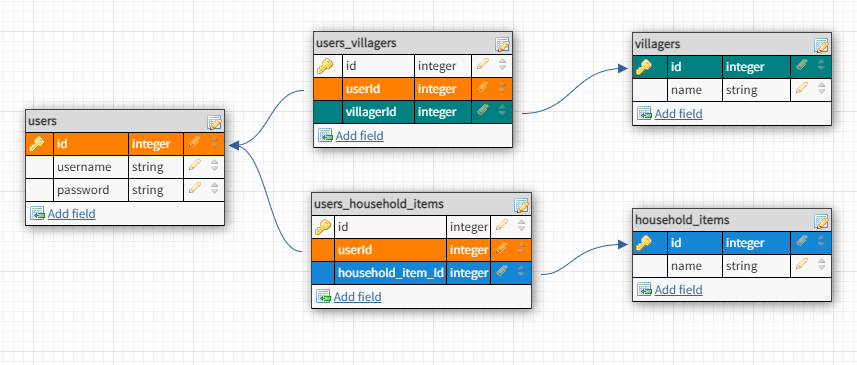
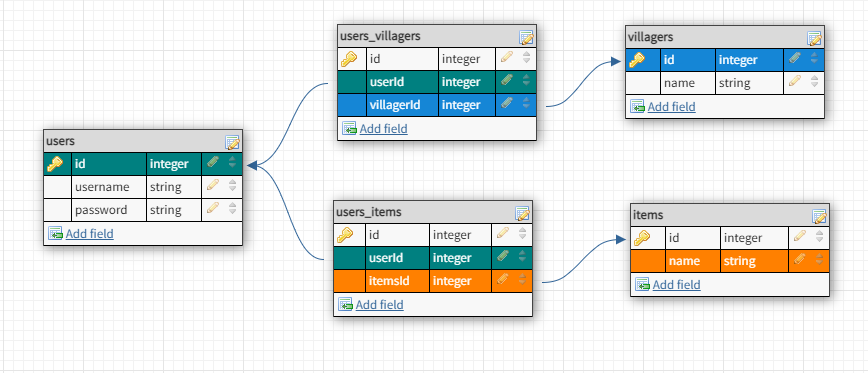
MVP

diff --git a/controllers/userController.js b/controllers/userController.js
@@ -21,9 +21,6 @@ router.post('/', async (req, res) => {
             username: req.body.username,
             password: hashedPassword
         })
-
-        // console.log(res.locals.user)
-
         const encryptedId = AES.encrypt(user.id.toString(), process.env.COOKIE_SECRET).toString()
         res.cookie('userId', encryptedId)
         res.redirect('/')
@@ -38,14 +35,12 @@ router.get('/login', (req, res) => {
     res.render('users/login')
 })
 
-// LOGIN - POST - user login pw -- NEED TO WORK ON
+// LOGIN - POST
 router.post('/login', async (req, res) => {
     try {
         const user = await db.user.findOne({
             where: { username: req.body.username }
         })
-        // console.log(req.body.password)
-        // console.log(user.password)
         if (user && bcrypt.compareSync(req.body.password, user.password)) {
             const encryptedId = AES.encrypt(user.id.toString(), process.env.COOKIE_SECRET).toString()
             res.cookie('userId', encryptedId)
@@ -60,9 +55,9 @@ router.post('/login', async (req, res) => {
     }
 })
 
-// PROFILE - GET - After login, user gets sent to the profile page 
+// PROFILE - GET  
 router.get('/profile', (req, res) => {
-    res.render('users/profile', { user: req.user }) // ADDED THIS LINE
+    res.render('users/profile', { user: req.user })
 })
 
 // LOGOUT - GET route - /users/logout

diff --git a/controllers/villagerController.js b/controllers/villagerController.js
@@ -22,7 +22,7 @@ router.get('/', async (req, res) => {
             }
             villagers.push(villagerData)
         }
-        villagers.splice(10, villagers.length)
+        villagers.splice(50, villagers.length)
         res.render('./villagers', { villagers: villagers })
 
     } catch (error) {
@@ -43,9 +43,8 @@ router.get('/:id', async (req, res) => {
     }
 })
 
-// favorite post should hit this post
+// favorite post should hit this route
 router.post('/', async (req, res) => {
-    // console.log(req.body)
     try {
         const [newVillager, created] = await db.villager.findOrCreate({
             where: { name: req.body.name }
@@ -62,8 +61,6 @@ router.post('/', async (req, res) => {
 router.delete('/:id', async (req, res) => {
     try {
         const villager = await db.villager.findByPk(req.params.id)
-        // const removedVillager = await
-        console.log(villager)
         res.locals.user.removeVillager(villager)
         res.redirect('/favorite')
     } catch(error) {

diff --git a/controllers/itemController.js b/controllers/itemController.js
@@ -21,8 +21,7 @@ router.get('/', async (req, res) => {
             }
             items.push(householdData)
         }
-        items.splice(10, items.length)
-        // console.log(householdItems[0].name.split(" ").join("_"), '👀👀👀🐱🚀🐱🚀👀🐱🚀👀')
+        items.splice(50, items.length)
         res.render('./items', { items: items })
     } catch (error) {
         console.log(error)
@@ -48,7 +47,6 @@ router.post('/', async (req, res) => {
         const [newItem, created] = await db.item.findOrCreate({
             where: { name: req.body.name }
         })
-        // console.log(newHouseholdItem) //works
         res.locals.user.addItem(newItem)
         res.redirect('/favorite')
     } catch(error) {

diff --git a/server.js b/server.js
@@ -56,17 +56,14 @@ app.get('/favorite', async (req, res) => {
         try {
             const user = await db.user.findOne({
                 where: { id: res.locals.user.id },
-                // include: db.villager
                 include: [db.villager, db.item]
             })
             res.render('favorite.ejs', { villagers: user.villagers, items: user.items })
-            // , items: user.items
         } catch (err) {
             console.log(err)
         }
     }
 })
-
 
 app.listen(PORT, () => {
     rowdyResults.print()

diff --git a/README.md b/README.md
@@ -34,36 +34,35 @@ Since its first release in 2001 by Katsuya Eguchi and Hisashi Nogami, the Animal
 ## RESTful Routing Chart
 Users Chart
 
-| Method  | URL             | Functionality   | View                 |
-| ------- | ----------      | --------------  | -------------------  |
-| GET     | /users/new      | sign up         | redirect to /index   |
-| POST    | /users          | create new user | redirect to /profile |
-| GET     | /users/login    | login           | redirect to /index   |
-| POST    | /users/login    | logs in new user| redirect to /profile |
-| GET     | /users/logout   | logout          | redirect to /index   |
+| Method  | URL             | Functionality           | View                 |
+| ------- | ----------      | --------------          | -------------------  |
+| GET     | /users/new      | sign up                 | redirect to /new     |
+| POST    | /users          | create new user         | redirect to /        |
+| GET     | /users/login    | login                   | redirect to /login   |
+| GET     | /users/login    | logs in new user        | redirect to /login   |
+| GET     | /users/profile  | direct user to fav prof | redirect to /profile |
+| GET     | /users/logout   | logout                  | redirect to /        |
 
 
 Villagers Chart
 
-| Method  | URL             | Functionality      | View                       |
-| ------- | ----------      | --------------     | ------------------------   |
-| GET     | /villagers      | list all villagers | show villagers/index.ejs   |
-| POST    | /villagers      | add a villager     | redirect to /villagers/:id |
-| GET     | /villagers/:id  | show one villager  | show villagers/detail.ejs  |
-| PUT     | /villagers/:id  | update a villager  | redirect to /villagers/:id |
-| DELETE  | /villagers/:id  | delete a villager  | redirect to /villagers     |
+| Method  | URL             | Functionality      | View                   |
+| ------- | ----------      | --------------     | -----------------------|
+| GET     | /villagers      | list all villagers | show villagers/index   |
+| POST    | /villagers      | favs a villager    | redirect to /favorites |
+| GET     | /villagers/:id  | show one villager  | show villagers/show    |
+| DELETE  | /villagers/:id  | delete a villager  | redirect to /favorites |
 
 
 
-Household_Items Chart
+Items Chart
 
-| Method  | URL                   | Functionality  | View                   |
-| ------- | ----------            | -------------- | ---------------------- |
-| GET     | /household_items      | list all items | show items/index.ejs   |
-| POST    | /household_items      | add an item    | redirect to /items/:id |
-| GET     | /household_items/:id  | show one item  | show items/detail.ejs  |
-| PUT     | /household_items/:id  | update a item  | redirect to /items/:id |
-| DELETE  | /household_items/:id  | delete a item  | redirect to /items     |
+| Method  | URL         | Functionality  | View                   |
+| ------- | ----------  | -------------- | ---------------------- |
+| GET     | /items      | list all items | show items/index       |
+| POST    | /items      | favs an item   | redirect to /favorites |
+| GET     | /items/:id  | show one item  | show items/show        |
+| DELETE  | /items/:id  | delete a item  | redirect to /favorites |
 
 ## MVP Goals
 
@@ -112,14 +111,19 @@ Household_Items Chart
   * Add favorites page - grab favorites input from db
 
 * Friday
+  * Correct items route
+  * npm install new models (item model was incorrect)
+  * Continue working on favorites page
   * Correct any bugs
   * Style pages
-  * Stretch goals
-  * MVP
 
 * Saturday / Sunday
+  * Squash bugs in favorites route
+  * Add a delete route (allows users to remove a fav villager/item)
+  * MVP (Saturday)
+  * Update Readme
   * More styling
-  * Stretch goals
+  * Stretch goal?
 
 ## Resources | APIs
 
